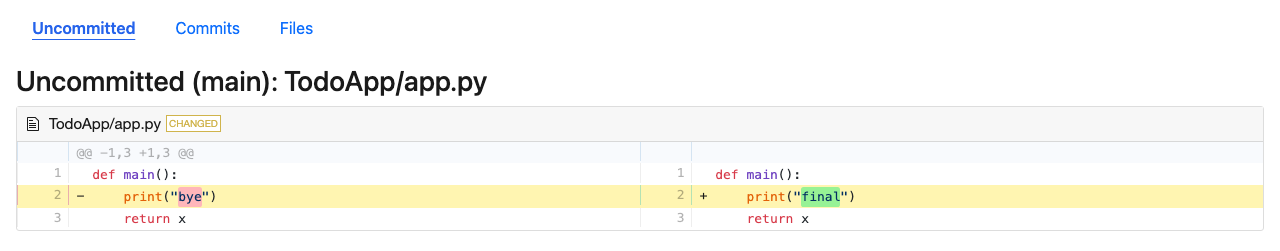
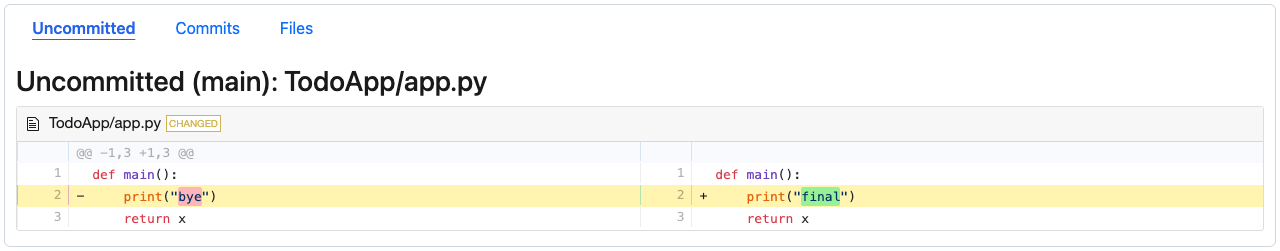
Generate borders around images to be easy to distinguish in md file

diff --git a/djangoapp/tests/playwright/test_screenshots.py b/djangoapp/tests/playwright/test_screenshots.py
@@ -36,7 +36,7 @@ from djangoapp.tests.playwright._base import BasePlaywrightTestCase
 from djangoapp.tests.views import skip_unless_env
 
 if TYPE_CHECKING:
-    from playwright.sync_api import ViewportSize
+    from playwright.sync_api import FloatRect, ViewportSize
 
 # PNGs are committed artifacts of the repo, not test scratch: they live under
 # docs/ next to the README that references them (BASE_DIR = repo root).
@@ -64,10 +64,19 @@ class BaseScreenshotTestCase(BasePlaywrightTestCase):
     shared page is resized to the README viewport for the test and restored
     afterwards (the page outlives the class).
 
-    - _shot, element screenshot of a page's main content container
+    - _capture_page, element screenshot of a page's main content container
     - _shot_below_navbar, clip screenshot of everything under the app navbar
       (for the fragment-rooted git/files pages that have no container div)
+
+    Both bake in a 1px rounded light-gray frame (#d0d7de) 4px inside the
+    captured rect (_draw_frame) — element shots capture a ring of page
+    background around the card (FRAME_MARGIN_PX) so the line never crosses
+    the card's content.
     """
+
+    # Width of that page-background ring. The body's own padding (≥8px)
+    # always leaves room for it, so expanding the clip needs no clamping.
+    FRAME_MARGIN_PX = 6
 
     @classmethod
     def setUpClass(cls) -> None:
@@ -80,11 +89,57 @@ class BaseScreenshotTestCase(BasePlaywrightTestCase):
         self.page.set_viewport_size(_SCREENSHOT_VIEWPORT)
         self.addCleanup(lambda: self.page.set_viewport_size(default_viewport))
 
-    def _shot(self, name: str, selector: str) -> None:
-        """Screenshot the page's main content container → ``<name>.png``."""
-        locator = self.page.locator(selector)
-        locator.wait_for(state="visible")
-        locator.screenshot(path=str(_SCREENSHOT_DIR / f"{name}.png"))
+    def _draw_frame(self, x: float, y: float, width: float, height: float) -> None:
+        """Draw the frame div 4px inside the given page rect.
+
+        Integer-snapped so rounding can't shave its border; id-stamped so a
+        stale frame from a previous shot on the same page is replaced.
+        """
+        self.page.evaluate(
+            """(r) => {
+                document.getElementById("readme-frame")?.remove();
+                const frame = document.createElement("div");
+                frame.id = "readme-frame";
+                frame.style.cssText = [
+                    "position:absolute",
+                    `left:${r.x}px`, `top:${r.y}px`,
+                    `width:${r.w}px`, `height:${r.h}px`,
+                    "border:1px solid #d0d7de",
+                    "border-radius:6px",
+                    "pointer-events:none",
+                ].join(";");
+                document.body.appendChild(frame);
+            }""",
+            {
+                "x": round(x) + 4,
+                "y": round(y) + 4,
+                "w": round(width) - 8,
+                "h": round(height) - 8,
+            },
+        )
+
+    def _capture_page(self, name: str, selector: str) -> None:
+        """Capture the element plus its frame margin, framed → ``<name>.png``.
+
+        full_page + clip, not locator.screenshot: beyond-viewport element
+        captures composite sticky elements over the clip's top, which ate the
+        frame on the taller-than-viewport shots.
+        """
+        box = self.page.locator(selector).bounding_box()
+        assert box is not None
+        margin = 2 * self.FRAME_MARGIN_PX
+        rect: FloatRect = {
+            "x": box["x"] - self.FRAME_MARGIN_PX,
+            "y": box["y"] - self.FRAME_MARGIN_PX,
+            "width": box["width"] + margin,
+            "height": box["height"] + margin,
+        }
+        self._draw_frame(**rect)
+        self.page.screenshot(
+            path=str(_SCREENSHOT_DIR / f"{name}.png"),
+            full_page=True,
+            clip=rect,
+        )
 
     def _shot_below_navbar(self, name: str, max_height: float | None = None) -> None:
         """Clip-screenshot everything under ``.layout-navbar`` → ``<name>.png``.
@@ -105,6 +160,7 @@ class BaseScreenshotTestCase(BasePlaywrightTestCase):
         height = body["y"] + body["height"] - top
         if max_height is not None:
             height = min(height, max_height)
+        self._draw_frame(0.0, top, body["width"], height)
         self.page.screenshot(
             path=str(_SCREENSHOT_DIR / f"{name}.png"),
             full_page=True,
@@ -152,7 +208,7 @@ class NotificationScreenshotTests(BaseScreenshotTestCase):
             )
         self.page.goto(f"{self.live_server_url}/notifications")
         self.page.wait_for_selector(".notification-item")
-        self._shot("notifications", ".notifications-page")
+        self._capture_page("notifications", ".notifications-page")
 
 
 class UserScreenshotTests(BaseScreenshotTestCase):
@@ -218,14 +274,14 @@ class UserScreenshotTests(BaseScreenshotTestCase):
         """/users/list renders the roster; the container card is captured."""
         self.page.goto(f"{self.live_server_url}/users/list")
         self.page.wait_for_selector(".users-table")
-        self._shot("users", ".users-page")
+        self._capture_page("users", ".users-page")
 
     def test_user_detail(self) -> None:
         """The featured profile renders with the admin panel + rich text."""
         self.page.goto(f"{self.live_server_url}/users/id/{self.featured.public_id}")
         self.page.wait_for_selector(".user-details-attrs")
         self.page.wait_for_selector(".rich-text-display")
-        self._shot("user-detail", ".user-details-page")
+        self._capture_page("user-detail", ".user-details-page")
 
 
 class CodeScreenshotTests(GitRepoMixin, BaseScreenshotTestCase):
@@ -360,13 +416,33 @@ class ModelScreenshotTests(BaseScreenshotTestCase):
         """/manage/models lists the test app's models; the card is captured."""
         self.page.goto(f"{self.live_server_url}/manage/models")
         self.page.wait_for_selector(".manage-modellist-page")
-        self._shot("models", ".manage-modellist-page")
+        self._capture_page("models", ".manage-modellist-page")
 
     def test_model_rows(self) -> None:
         """The Book row list's columns + FK cells are captured."""
         self.page.goto(f"{self.live_server_url}/manage/models/Book/list")
         self.page.wait_for_selector(".manage-modelrows-page")
-        self._shot("model-rows", ".manage-modelrows-page")
+        # The Book table is wider than the page container (on screen it is
+        # cut at the card's edge), so resize the container to the table's
+        # natural width before capturing — every column makes the shot.
+        # maxWidth must go too (Bootstrap's .container caps .width), and the
+        # natural width must be measured UNCONSTRAINED: give the table a huge
+        # canvas, read its no-wrap preferred width, then fit the container to
+        # exactly that (widening once by scrollWidth just re-squeezes cells).
+        self.page.evaluate(
+            """(pageSelector) => {
+                const page = document.querySelector(pageSelector);
+                const table = page.querySelector("table");
+                page.style.maxWidth = "none";
+                page.style.width = "5000px";
+                table.style.width = "auto";
+                const natural = Math.ceil(table.getBoundingClientRect().width);
+                page.style.width = `${natural}px`;
+                table.style.width = "";
+            }""",
+            ".manage-modelrows-page",
+        )
+        self._capture_page("model-rows", ".manage-modelrows-page")
 
     def test_row_detail(self) -> None:
         """The featured book's detail renders (audit history loaded)."""
@@ -375,7 +451,7 @@ class ModelScreenshotTests(BaseScreenshotTestCase):
         # logs are a deferred Inertia prop landing via partial reload — wait
         # for a rendered entry so the history section isn't caught "Loading".
         self.page.wait_for_selector(".update-log-entry")
-        self._shot("row-detail", ".manage-rowdetail-page")
+        self._capture_page("row-detail", ".manage-rowdetail-page")
 
 
 @skipIf(
@@ -406,7 +482,7 @@ class MockupScreenshotTests(BaseScreenshotTestCase):
         """/mockup-todos renders the todo mockup; the card is captured."""
         self.page.goto(f"{self.live_server_url}/mockup-todos")
         self.page.wait_for_selector(".ours-mockup-todos.mockup")
-        self._shot("mockup-todos", ".ours-mockup-todos")
+        self._capture_page("mockup-todos", ".ours-mockup-todos")
 
     def test_todos_final(self) -> None:
         """/mockup-todos?final drops the crosshatch wrapper; captured as-is."""
@@ -416,7 +492,7 @@ class MockupScreenshotTests(BaseScreenshotTestCase):
         # The hatch rides the .mockup class (its ::before) — its absence is
         # the point of this variant.
         self.assertNotIn("mockup", (root.get_attribute("class") or "").split())
-        self._shot("todos-final", ".ours-mockup-todos")
+        self._capture_page("todos-final", ".ours-mockup-todos")
 
     def test_mockup_hidden_from_anonymous(self) -> None:
         """An anonymous viewer of the mockup route gets a 404 (the gate holds)."""

diff --git a/docs/screenshots/README.md b/docs/screenshots/README.md
@@ -2,7 +2,8 @@
 
 Committed PNGs referenced from the root [README.md](../../README.md). Each is
 captured by the `screenshots`-tagged Playwright pass at a 1280×960 viewport,
-clipped to the page's main content (the app navbar is not part of the shots).
+clipped to the page's main content (the app navbar is not part of the shots),
+with a small frame so images in md are easily distinguished.
 
 Regenerate after intentional UI changes:
 

diff --git a/TODO.md b/TODO.md
@@ -1,4 +1,4 @@
-desmo user shouldnt have readonly access to its files
+desmo user shouldnt have rw access to its files
 
 gate() is dangerous
 
@@ -7,8 +7,6 @@ TUI for config
 Readme for end users and devs. VM, pi /login and /model selection
 
 Branding
-
-Add borders for images in readme?
 
 Admin file uploads - admin can download, both agent and admin can pass files back and forth
 Features - file section with git etc
